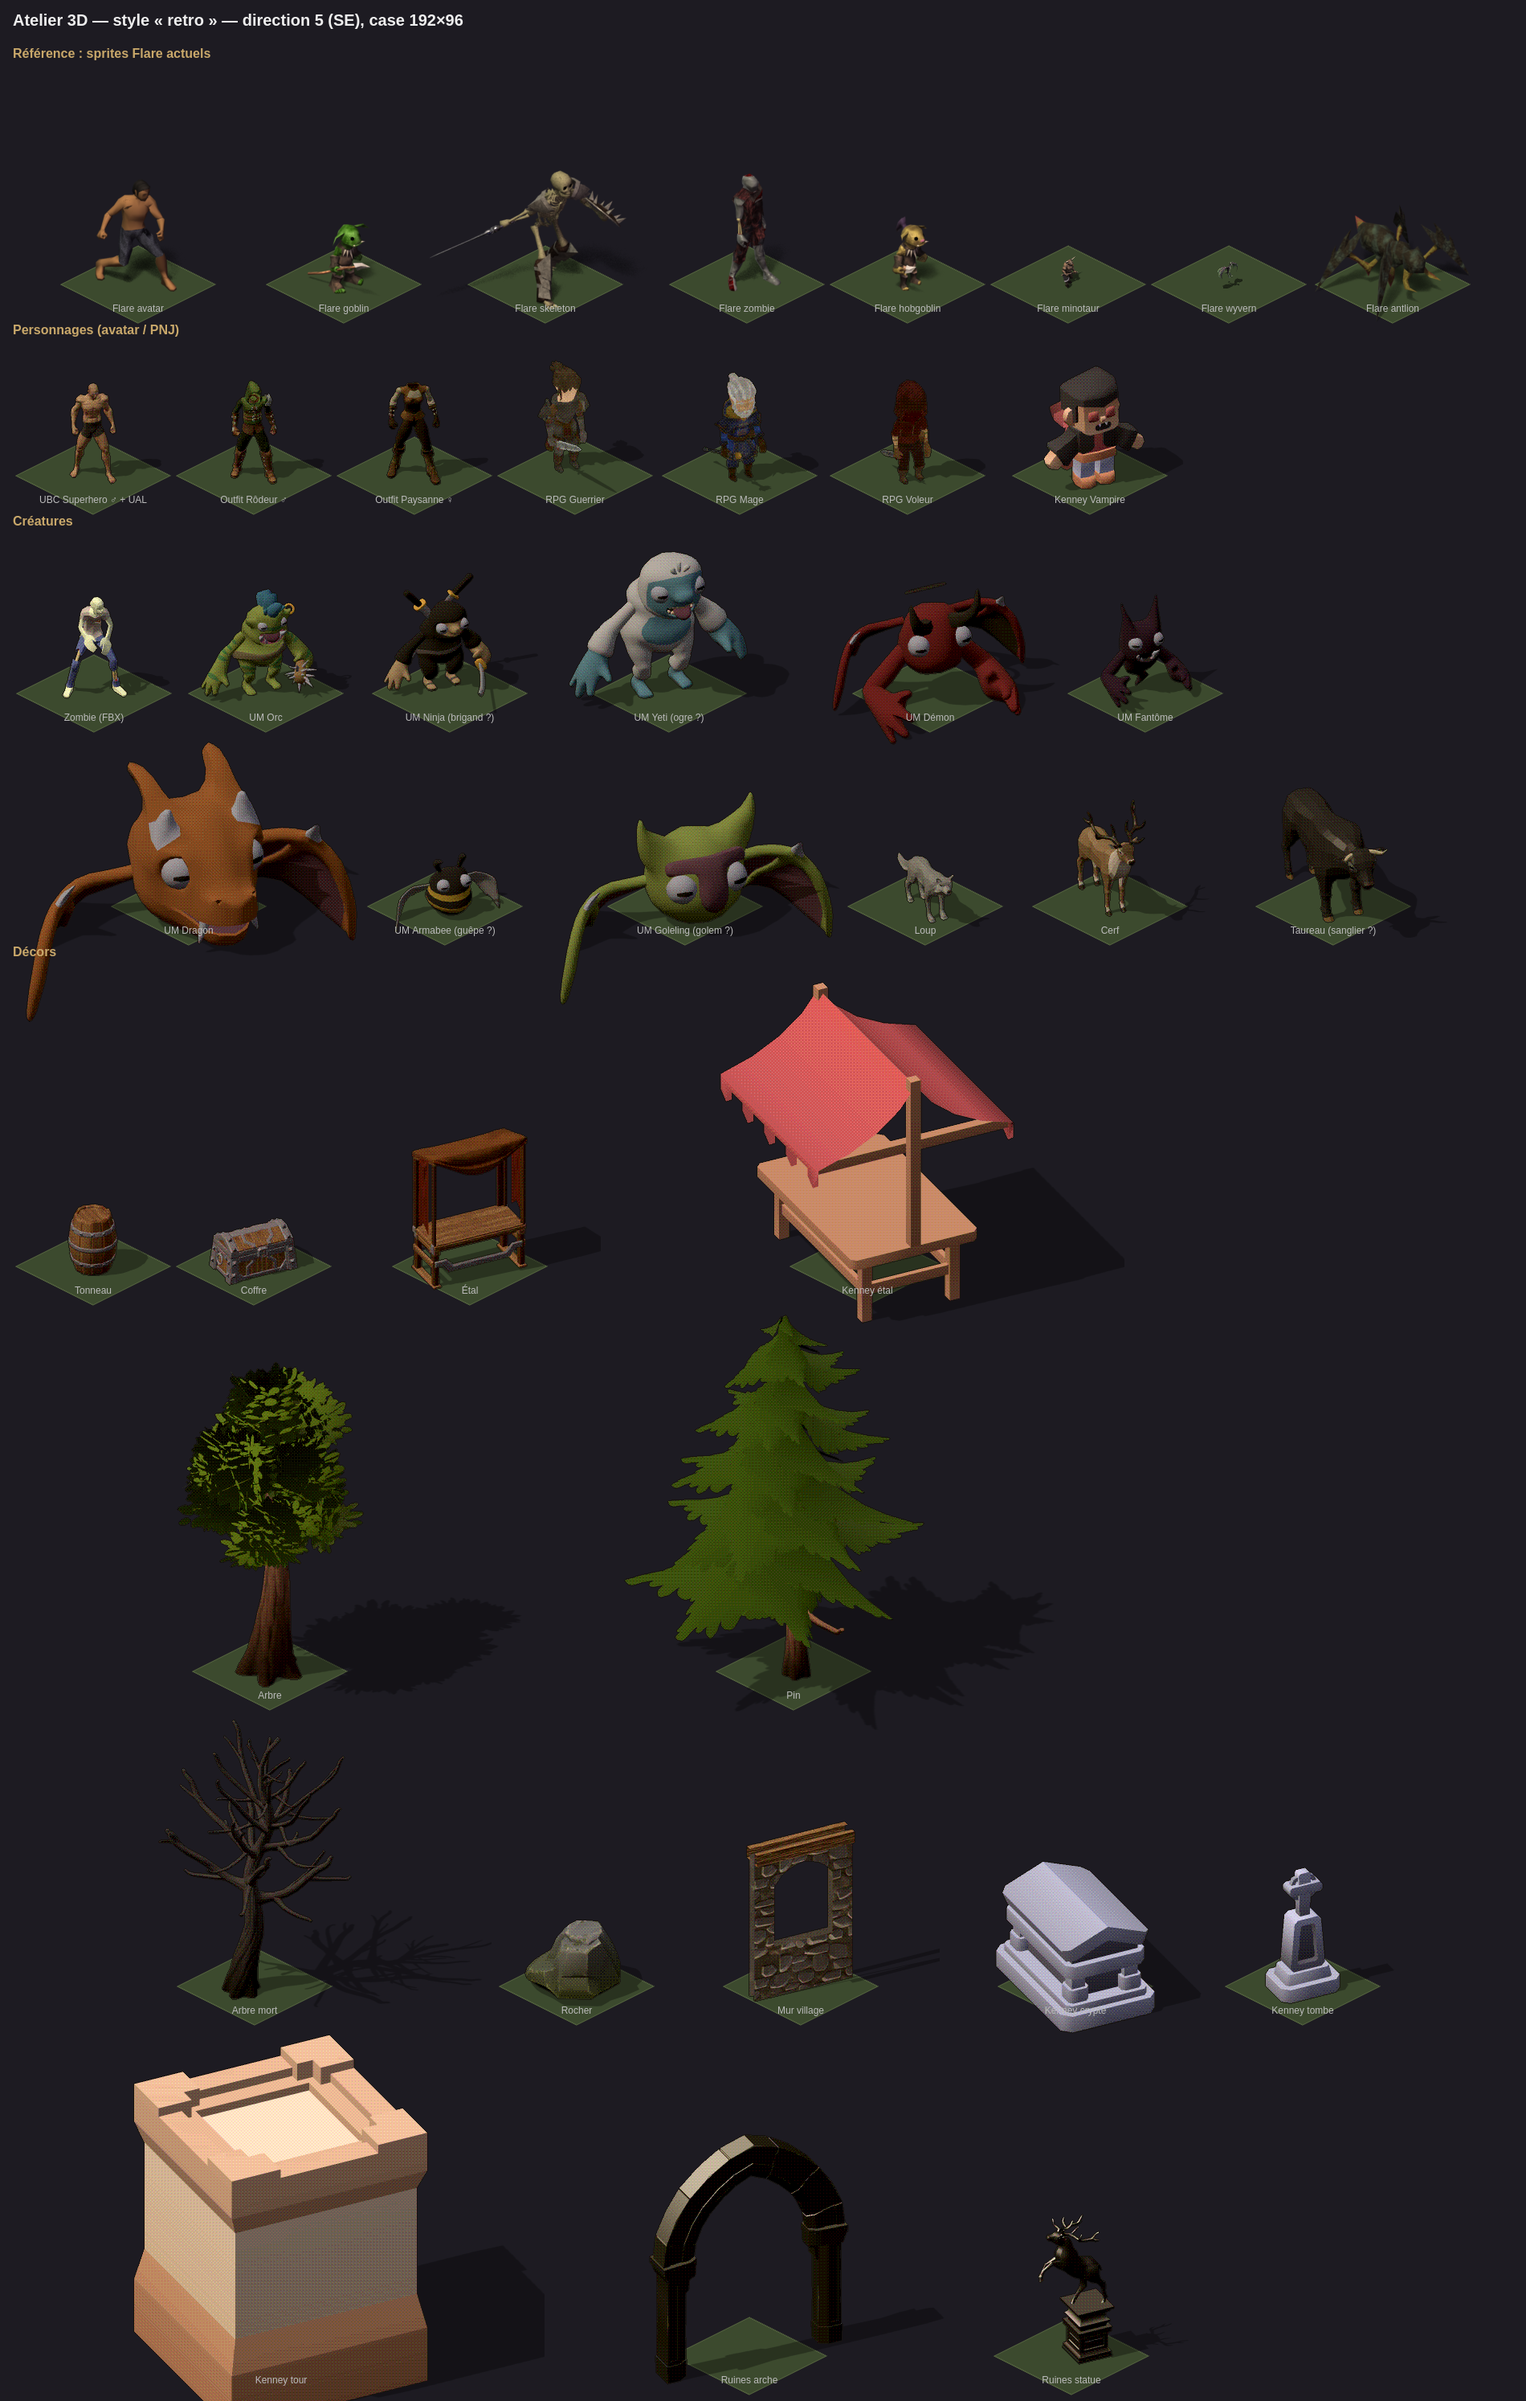
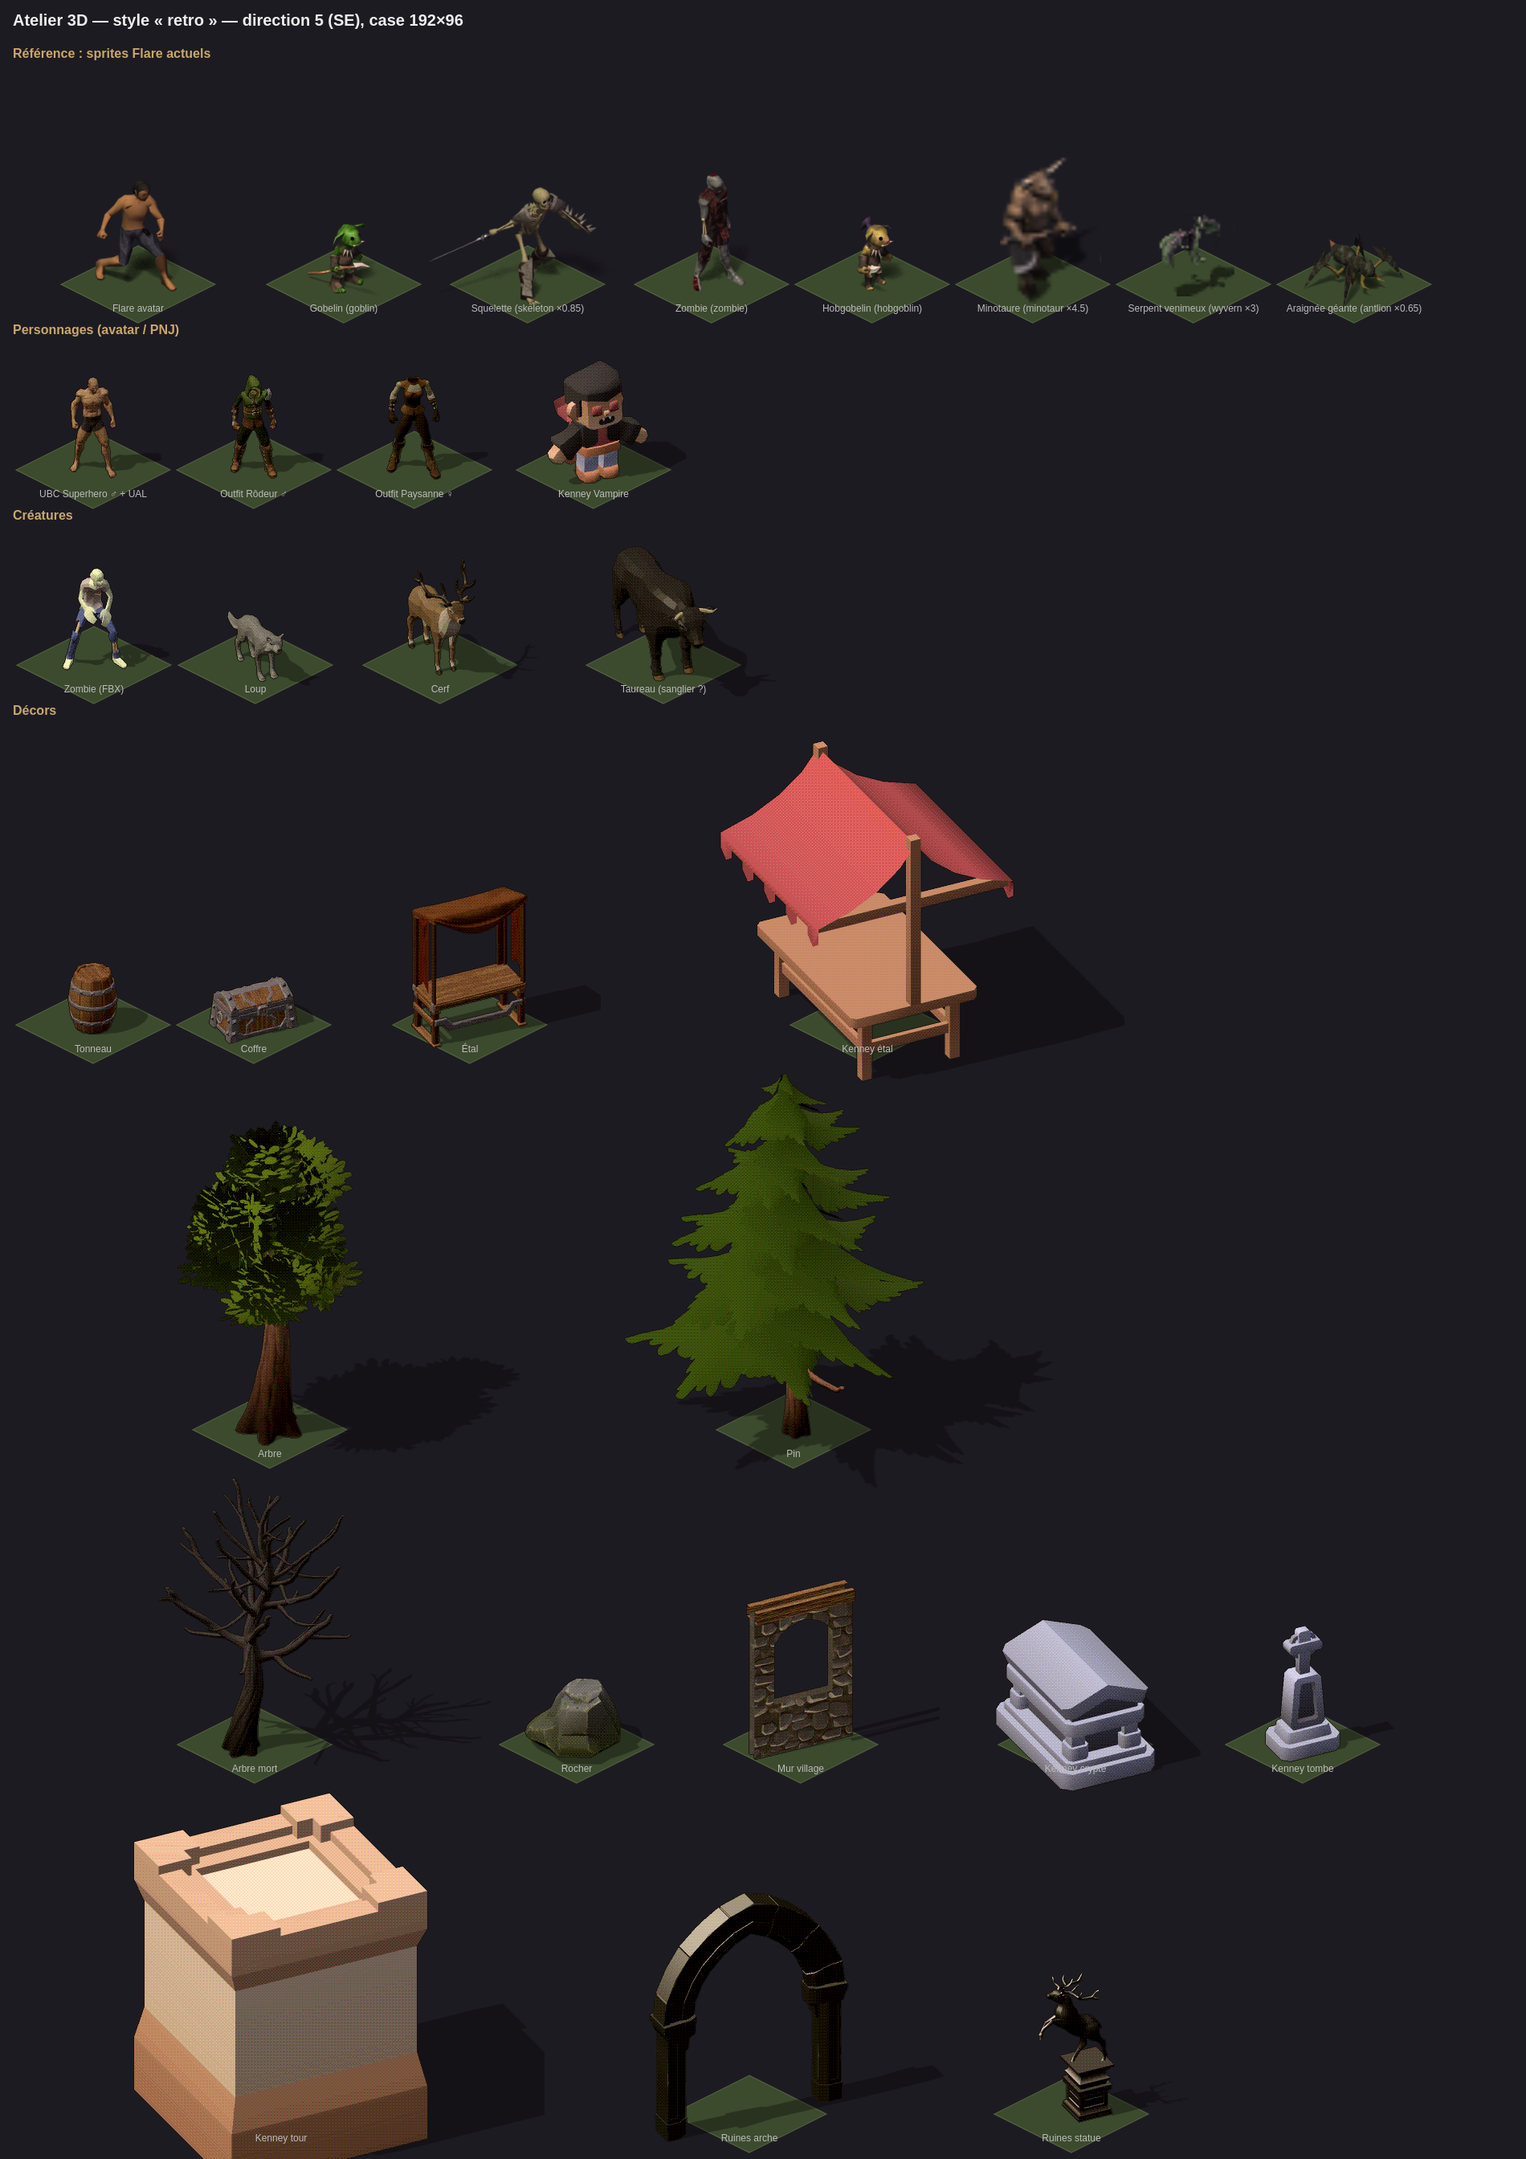
Atelier 3D : écarte Ultimate Monsters et RPG Characters ; références Flare à taille réelle
Après test : Ultimate Monsters est trop « mignon » et RPG Characters
trop trapu pour l'ambiance T4C. Socle retenu pour les créatures :
Zombie, Ultimate Animated Animals (loup, cerf, taureau) et les humains
UBC + Outfits + UAL.

La ligne de référence de la planche montrait les sprites Flare à leur
taille brute, ce qui trompait la comparaison (minotaure minuscule alors
qu'il est agrandi ×3.2 en jeu) : elle applique désormais le spriteScale
de MOBS, comme entities2d.js (defs.js servi sous /shared/).

Matrice du bestiaire mise à jour : 5 directs, 3 substituts, 27 trous.
Le CC0 couvre décors et humains, pas le bestiaire T4C.

diff --git a/tools/atelier3d/planche.js b/tools/atelier3d/planche.js
@@ -2,11 +2,10 @@
 // catalogue avec bake3d.js dans les deux styles (« net » et « retro »), sur
 // un losange de case 192x96 pour juger l'échelle, à côté de sprites Flare.
 import { Atelier3D } from '/js/admin/bake3d.js';
+import { MOBS } from '/shared/defs.js';
 
 const S = '/src3d/';
-const UM = S + 'ultimate_monsters/Ultimate Monsters/';
 const ANI = S + 'ultimate_animated_animals/Ultimate Animated Animals - July 2021/glTF/';
-const RPG = S + 'rpg_characters/RPG Characters - Nov 2020/glTF/';
 const OUT = S + 'modular_character_outfits_fantasy/Modular Character Outfits - Fantasy[Standard]/Exports/glTF (Godot-Unreal)/Outfits/';
 const UAL = [S + 'universal_animation_library/Universal Animation Library[Standard]/Unreal-Godot/UAL1_Standard.glb'];
 const PROPS = S + 'fantasy_props_megakit/Exports/glTF/';
@@ -20,21 +19,10 @@ const CATALOGUE = [
     { nom: 'UBC Superhero ♂ + UAL', url: S + 'universal_base_characters/Universal Base Characters[Standard]/Base Characters/Godot - UE/Superhero_Male_FullBody.gltf', anims: UAL, h: 1.8, clip: '^Idle_Loop$' },
     { nom: 'Outfit Rôdeur ♂', url: OUT + 'Male_Ranger.gltf', anims: UAL, h: 1.8, clip: '^Idle_Loop$' },
     { nom: 'Outfit Paysanne ♀', url: OUT + 'Female_Peasant.gltf', anims: UAL, h: 1.7, clip: '^Idle_Loop$' },
-    { nom: 'RPG Guerrier', url: RPG + 'Warrior.gltf', h: 1.8, clip: '^idle$' },
-    { nom: 'RPG Mage', url: RPG + 'Wizard.gltf', h: 1.8, clip: '^idle$' },
-    { nom: 'RPG Voleur', url: RPG + 'Rogue.gltf', h: 1.75, clip: '^idle$' },
     { nom: 'Kenney Vampire', url: KG + 'character-vampire.glb', h: 1.8, clip: '^idle$' },
   ]],
   ['Créatures', [
     { nom: 'Zombie (FBX)', url: S + 'zombie_by_quaternius/Zombie by @Quaternius/FBX/Zombie.fbx', texture: S + 'zombie_by_quaternius/Zombie by @Quaternius/Blends/ZombieTexture.png', h: 1.8, clip: 'ZombieIdle' },
-    { nom: 'UM Orc', url: UM + 'Big/glTF/Orc.gltf', h: 1.9, clip: '^idle$' },
-    { nom: 'UM Ninja (brigand ?)', url: UM + 'Big/glTF/Ninja.gltf', h: 1.75, clip: '^idle$' },
-    { nom: 'UM Yeti (ogre ?)', url: UM + 'Big/glTF/Yeti.gltf', h: 2.6, clip: '^idle$' },
-    { nom: 'UM Démon', url: UM + 'Flying/glTF/Demon.gltf', h: 2.0, clip: '^Flying_Idle$' },
-    { nom: 'UM Fantôme', url: UM + 'Flying/glTF/Ghost.gltf', h: 1.6, clip: '^Flying_Idle$' },
-    { nom: 'UM Dragon', url: UM + 'Flying/glTF/Dragon.gltf', h: 2.4, clip: '^Flying_Idle$' },
-    { nom: 'UM Armabee (guêpe ?)', url: UM + 'Flying/glTF/Armabee.gltf', h: 1.0, clip: '^Flying_Idle$' },
-    { nom: 'UM Goleling (golem ?)', url: UM + 'Flying/glTF/Goleling.gltf', h: 2.0, clip: '^Flying_Idle$' },
     { nom: 'Loup', url: ANI + 'Wolf.gltf', h: 0.95, clip: '^idle$' },
     { nom: 'Cerf', url: ANI + 'Stag.gltf', h: 1.9, clip: '^idle$' },
     { nom: 'Taureau (sanglier ?)', url: ANI + 'Bull.gltf', h: 1.6, clip: '^idle$' },
@@ -75,7 +63,8 @@ function chargerImage(src) {
   return new Promise((ok, ko) => { const i = new Image(); i.onload = () => ok(i); i.onerror = () => ko(new Error(src)); i.src = src; });
 }
 
-// Références Flare : avatar composé + quelques monstres, même direction.
+// Références Flare : avatar composé + monstres du jeu À LEUR TAILLE EN JEU
+// (spriteScale de MOBS appliqué, comme entities2d.js), même direction.
 async function refsFlare() {
   const man = await (await fetch('/assets/manifest.json')).json();
   const refs = [];
@@ -88,12 +77,13 @@ async function refsFlare() {
     g.drawImage(await chargerImage('/assets/' + av[c].image), x, y, w, h, 150 - ox, 250 - oy, w, h);
   }
   refs.push({ nom: 'Flare avatar', canvas: cv, ox: 150, oy: 250 });
-  for (const n of ['goblin', 'skeleton', 'zombie', 'hobgoblin', 'minotaur', 'wyvern', 'antlion']) {
-    const def = man.enemies[n]; if (!def) continue;
+  for (const cle of ['gobelin', 'squelette', 'zombie', 'orc', 'ogre', 'serpent_venimeux', 'araignee_geante']) {
+    const mob = MOBS[cle], def = man.enemies[mob?.sprite]; if (!def) continue;
+    const k = mob.spriteScale || 1;
     const [x, y, w, h, ox, oy] = frame(def, DIR);
-    const c2 = document.createElement('canvas'); c2.width = w; c2.height = h;
-    c2.getContext('2d').drawImage(await chargerImage('/assets/' + def.image), x, y, w, h, 0, 0, w, h);
-    refs.push({ nom: 'Flare ' + n, canvas: c2, ox, oy });
+    const c2 = document.createElement('canvas'); c2.width = Math.ceil(w * k); c2.height = Math.ceil(h * k);
+    c2.getContext('2d').drawImage(await chargerImage('/assets/' + def.image), x, y, w, h, 0, 0, w * k, h * k);
+    refs.push({ nom: `${mob.name} (${mob.sprite}${k !== 1 ? ' ×' + k : ''})`, canvas: c2, ox: Math.round(ox * k), oy: Math.round(oy * k) });
   }
   return refs;
 }

diff --git a/docs/atelier3d-catalogue.md b/docs/atelier3d-catalogue.md
@@ -13,7 +13,8 @@ Toutes **CC0 1.0** (texte de licence vérifié dans chaque zip le 2026-10-19 ; e
 sha256 dans `MANIFEST.json`). Quaternius publie désormais certains packs sous sa licence
 **QAL**, qui INTERDIT la redistribution dans un moteur/template : n'utiliser que les
 versions CC0 archivées. Exclus : *Bestiary – Dungeon Monsters Kit* (QAL) et **tout KayKit**
-(style trop cartoon/chibi, ne colle pas à l'ambiance T4C — décision du 2026-10-19).
+(style trop cartoon/chibi), **Quaternius Ultimate Monsters** (trop « mignon ») et **Quaternius RPG
+Characters** (proportions trapues) : ne collent pas à l'ambiance T4C — décisions du 2026-10-19.
 
 | Pack | Contenu utile | Remarque |
 |---|---|---|
@@ -24,8 +25,6 @@ versions CC0 archivées. Exclus : *Bestiary – Dungeon Monsters Kit* (QAL) et *
 | Quaternius Universal Base Characters (Standard) | corps rigués ♂/♀ | **gratuit = proportions « Superhero » seulement** |
 | Quaternius Modular Character Outfits (Standard) | Paysan, Rôdeur (♂/♀) | **2 tenues sur 12** dans la version gratuite |
 | Quaternius Universal Animation Library (Standard) | 43 clips humanoïdes (idle, marche, épée, sort, mort…) | s'applique aux corps UBC/Outfits |
-| Quaternius RPG Characters | guerrier, mage, voleur, moine, clerc, rôdeur (animés) | proportions trapues |
-| Quaternius Ultimate Monsters | 50 monstres animés | style « mignon » marqué |
 | Quaternius Ultimate Animated Animals | loup, renard, cerf, cheval, taureau… (12) | pas d'ours ni de sanglier |
 | Quaternius Zombie | zombie animé (FBX) | texture livrée à part |
 | Kenney (8 kits) | town, castle, graveyard, dungeons, cave, forest, nature | très simple, couleurs plates |
@@ -37,55 +36,46 @@ CC0 : les acheter ne pose pas de problème de licence pour la plateforme.
 
 ✅ modèle direct · 🟡 substitut / recoloration / assemblage · 🔴 trou
 
+Socle retenu pour les créatures : Quaternius Zombie, Ultimate Animated Animals (loup, cerf,
+taureau) et les humains UBC + Outfits + UAL.
+
 | Monstre (clé) | Nom | Proposition | |
 |---|---|---|---|
 | zombie | Zombie | Quaternius Zombie | ✅ |
 | loup | Loup | Animals Wolf | ✅ |
 | loup_noir | Loup noir | Animals Wolf + teinte | ✅ |
-| brigand | Brigand | UBC + Outfit Rôdeur / RPG Rogue | ✅ |
-| voleur | Voleur | UBC + Outfit Rôdeur / RPG Rogue + teinte | ✅ |
-| gobelin | Gobelin | UM Orc réduit + teinte | 🟡 |
-| orc | Hobgobelin | UM Orc | 🟡 |
-| orc_eclaireur | Éclaireur orc | UM Orc + arme Fantasy Props (hache/épée bronze) | 🟡 |
-| orc_guerrier | Guerrier orc | UM Orc + arme/bouclier | 🟡 |
-| orc_chaman | Chaman orc | UM Orc + bâton du RPG Mage | 🟡 |
-| skraug_vert | Skraug vert | UM Orc + teinte (pas d'homme-lézard) | 🟡 |
-| skraug_rouge | Skraug rouge | idem, teinte rouge | 🟡 |
-| troll | Troll | UM Yeti + teinte | 🟡 |
-| ogre | Minotaure | UM Yeti agrandi (pas de minotaure) | 🟡 |
+| brigand | Brigand | UBC + Outfit Rôdeur | ✅ |
+| voleur | Voleur | UBC + Outfit Rôdeur + teinte | ✅ |
 | momie | Momie | Zombie + texture bandelettes | 🟡 |
 | goule | Goule | Zombie + teinte | 🟡 |
-| guepe | Guêpe géante | UM Armabee (mignon) | 🟡 |
 | golem_pierre | Golem de pierre | rochers Nature assemblés sur un squelette UBC | 🟡 |
-| squelette | Squelette | — (seul squelette CC0 réaliste trouvé : aucun ; Kenney trop simple) | 🔴 |
-| liche_mineure | Liche mineure | — (dépend du squelette) | 🔴 |
-| sanglier | Sanglier | (Taureau réduit : peu crédible) | 🔴 |
-| ours | Ours brun | — | 🔴 |
-| rat_caverne | Rat des cavernes | — | 🔴 |
-| serpent_venimeux | Serpent venimeux | — | 🔴 |
-| centaure | Centaure | — (Cheval + buste UBC à tenter) | 🔴 |
-| elementaire_feu | Élémentaire de feu | — (golem + particules à tenter) | 🔴 |
-| rat | Fourmilion | — | 🔴 |
-| fourmilion_geant | Fourmilion géant | — | 🔴 |
-| serpent | Fourmi de feu | — | 🔴 |
-| kraanian | Ouvrier kraanien | — | 🔴 |
-| mille_pattes | Mille-pattes kraanien | — | 🔴 |
-| araignee_geante | Araignée géante | — | 🔴 |
-| tarentule | Tarentule | — | 🔴 |
-| tarentule_geante | Tarentule géante | — | 🔴 |
-| necro_araignee | Nécro-araignée | — | 🔴 |
+| gobelin, orc, orc_eclaireur, orc_guerrier, orc_chaman | Gobelin, Hobgobelin, orcs | — (piste : UBC teinté + tenue, sans crocs) | 🔴 |
+| skraug_vert, skraug_rouge | Skraugs | — (hommes-lézards) | 🔴 |
+| troll, ogre | Troll, Minotaure | — | 🔴 |
+| squelette, liche_mineure | Squelette, Liche | — (aucun squelette CC0 réaliste trouvé) | 🔴 |
+| sanglier, ours, rat_caverne | Sanglier, Ours, Rat | — (Taureau réduit peu crédible en sanglier) | 🔴 |
+| serpent_venimeux, guepe | Serpent, Guêpe | — | 🔴 |
+| centaure, elementaire_feu | Centaure, Élémentaire | — (pistes : Cheval + buste UBC ; golem + particules) | 🔴 |
+| rat, fourmilion_geant, serpent, kraanian, mille_pattes | Fourmilions, fourmi, kraaniens | — | 🔴 |
+| araignee_geante, tarentule, tarentule_geante, necro_araignee | Araignées | — | 🔴 |
 
-Bilan : **5 ✅, 13 🟡, 17 🔴**. 9 des 17 trous sont des **insectes / arachnides** (une
-seule famille de modèles à trouver, à générer ou à animer procéduralement : un rig de
-pattes en IK se code sans talent graphique). Les décors, eux, sont largement couverts.
+Bilan : **5 ✅, 3 🟡, 27 🔴**. Le CC0 couvre les **décors** et les **humains** ; il ne
+couvre pas le bestiaire T4C. Les créatures passeront par une autre source (génération
+image→3D avec auto-rig, modèles commandés, ou animation procédurale pour les
+insectes/arachnides — 9 des 27 trous), toujours rendues par `bake3d.js` pour garder la
+cohérence.
 
 ## Constats de la planche
+
+La ligne de référence montre les sprites Flare **à leur taille en jeu** (`spriteScale` de
+`MOBS`). Ajustés suite à la planche : squelette ×0.85, minotaure ×4.5, serpent venimeux
+(wyvern) ×3. Le minotaure Flare, planche de 25×42 px agrandie ×4.5, reste flou.
 
 - **Décors** : cohérents entre packs une fois passés par la même lumière ; les kits
   modulaires s'emboîtent à l'échelle « 1 pas de grille = 1 case » (`module`).
 - **Humains** (UBC / Outfits / UAL) : les plus proches de l'esprit T4C ; les animations
   partagées s'appliquent telles quelles.
-- **Ultimate Monsters** : trop « mignon » pour un T4C sombre, hors Orc/Yeti.
+- **Ultimate Monsters**, **RPG Characters** : écartés (trop mignon / trop trapu).
 - **KayKit** : chibi, détonne à côté des humains Quaternius — **écarté**. Les squelettes
   sont donc à retrouver (modèle CC0 réaliste, génération image→3D sur le corps UBC).
 - Pièges gérés par `bake3d.js` : > 4 influences d'os (renormalisation), opacité FBX à 0,
